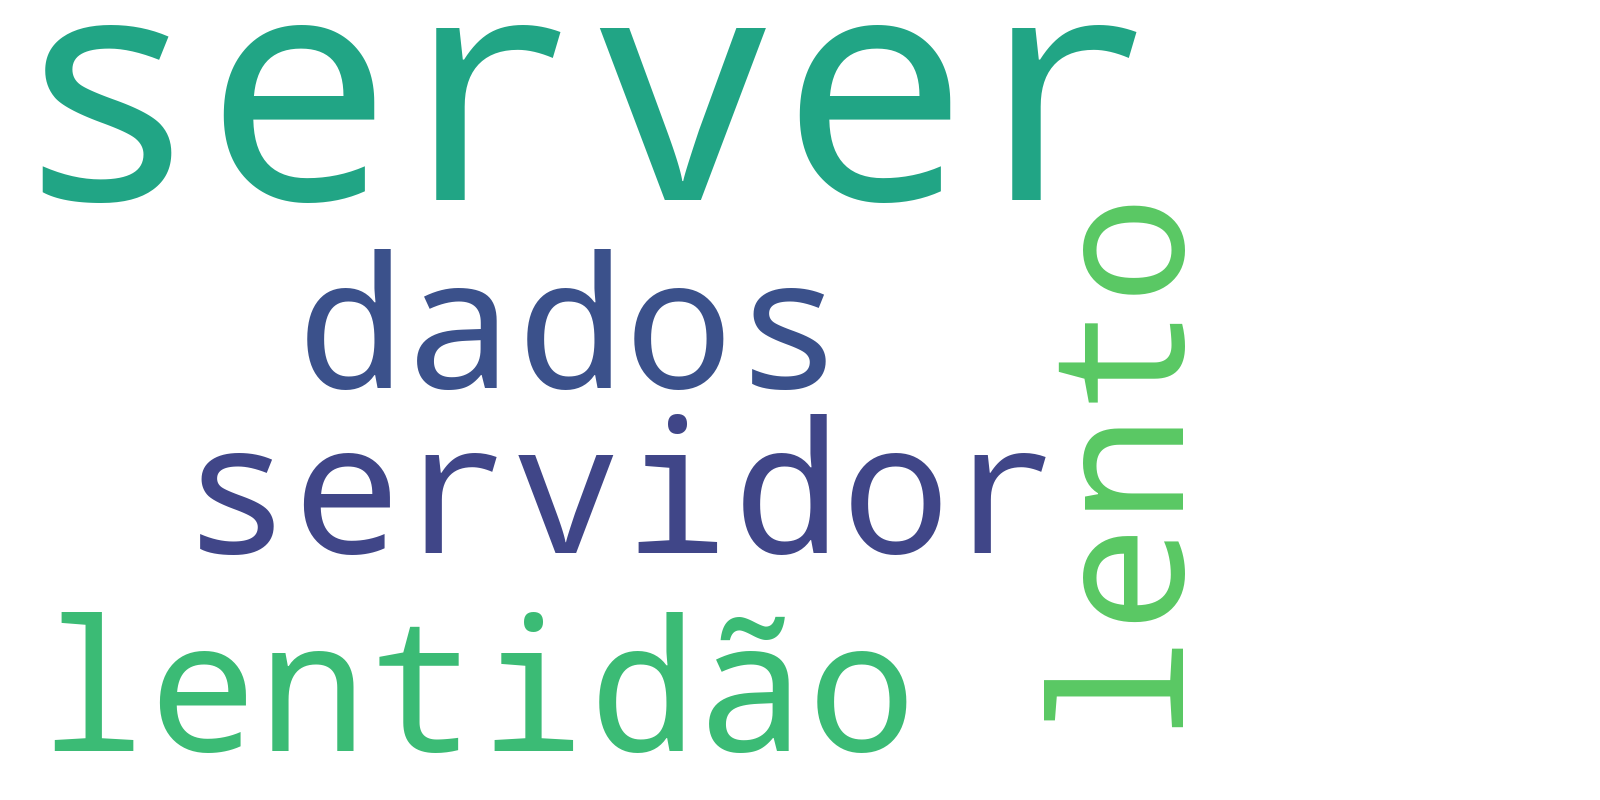
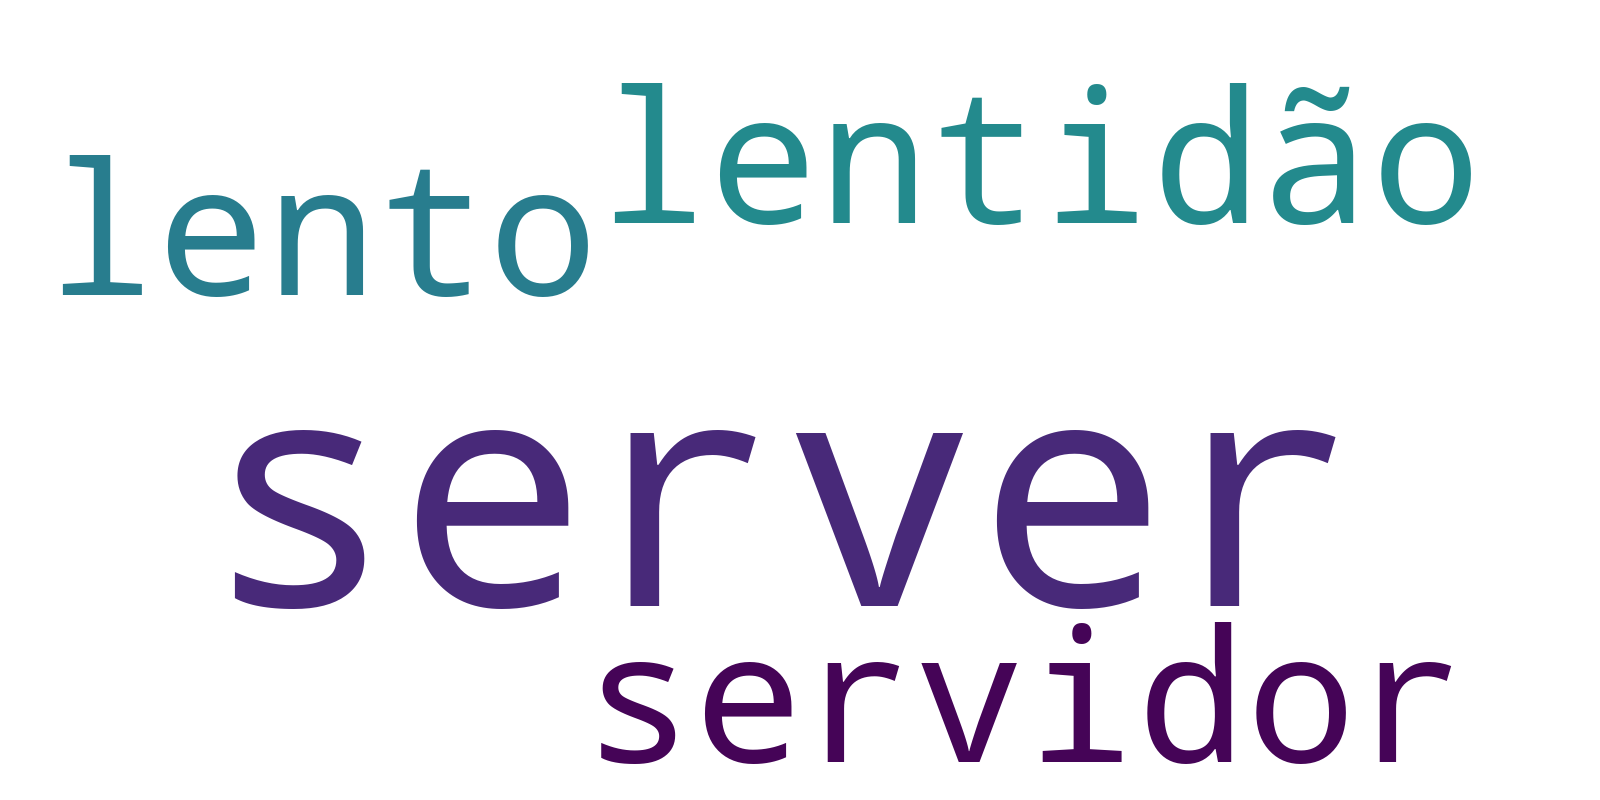
mudanças

Changed region(s): [[0.0, 0.0312, 0.9375, 0.9688], [0.6562, 0.4062, 0.75, 0.5]]

diff --git a/site/src/controllers/chamadosController.js b/site/src/controllers/chamadosController.js
@@ -159,10 +159,10 @@ function responderChamado(req, res) {
 
     let respostaChamado = req.body.respostaChamado
     let idChamado = req.body.idServer
-    const slackToken = tokenSlack.token;
+    const slackToken = "xoxb-4464762" + "865523-4467" + "332847732-x" + "U6YNReIpy4Plgh3" + "xLFqxKt49";
     chamadoModel.responderChamado(respostaChamado, idChamado)
 
-    const url = 'https://hooks.slack.com/services/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';
+    const url = "https://hooks.slack.com/services" + "/T04DNN" + "ERFFD/B04DNS1T5QV" + "/njTboxzsRSowVvc" + "begflMqrm";
     const resposta = axios.post(url, {
         channel: '#geral',
         text: `Olá! O seu chamado acaba de ser respondido! 😅 \n De: Analista de sistemas (𝐩𝐚𝐫𝐝𝐚𝐥𝐢𝐬𝐩𝐫𝐨𝐣𝐞𝐭𝐨@𝐠𝐦𝐚𝐢𝐥.𝐜𝐨𝐦)\n \n Resposta:\n ${respostaChamado} \n\nᶜᵃˢᵒ ᵉˢˢᵃ ʳᵉˢᵖᵒˢᵗᵃ ⁿᵃᵒ ˢᵉʲᵃ ᵃ ˢᵒˡᵘᶜᵃᵒ ⁿᵒˢ ᶜᵒⁿᵗᵃᵗᵉ ᵖᵒʳ ᵉᵐᵃᶦˡ 📧   `

diff --git a/site/public/chamadoIndex.html b/site/public/chamadoIndex.html
@@ -331,7 +331,7 @@
 
                 if (res[i].prioridadeChamado == "Alerta") prioridades.Alerta++;
 
-                if (res[i].prioridadeCHamado == "Risco") prioridades.Risco++;
+                if (res[i].prioridadeChamado == "Urgente") prioridades.Risco++;
             }
         };
         return prioridades

diff --git a/python/api-marco/test.py b/python/api-marco/test.py
@@ -67,7 +67,7 @@ while (True):
 
     # cursor.execute("USE db_test")
     cursor.execute(
-        f"insert into CPU_metricas (temperatura, ram, frequencia, disco, fkCpu) values  ( {cpu_temp},{ram}, {cpu}, {disco},1);")
+        f"insert into CPU_metricas (temperatura, ram, frequencia, disco) values  ( {cpu_temp},{ram}, {cpu}, {disco});")
     connection.commit()
     cursor.execute(f"select * from CPU_metricas")
     resultado = cursor.fetchall()  # fetchone

diff --git a/python/wordcloud-rafael/stop.py b/python/wordcloud-rafael/stop.py
@@ -12,7 +12,10 @@ def stopwordsList():
         'parou',
         'hardware',
         'lenta',
-        'dados',
+        'lentidão',
+        'devagar',
+        'quente',
+        'ruim',
         'problema',
         'incidente',
         'erro',
